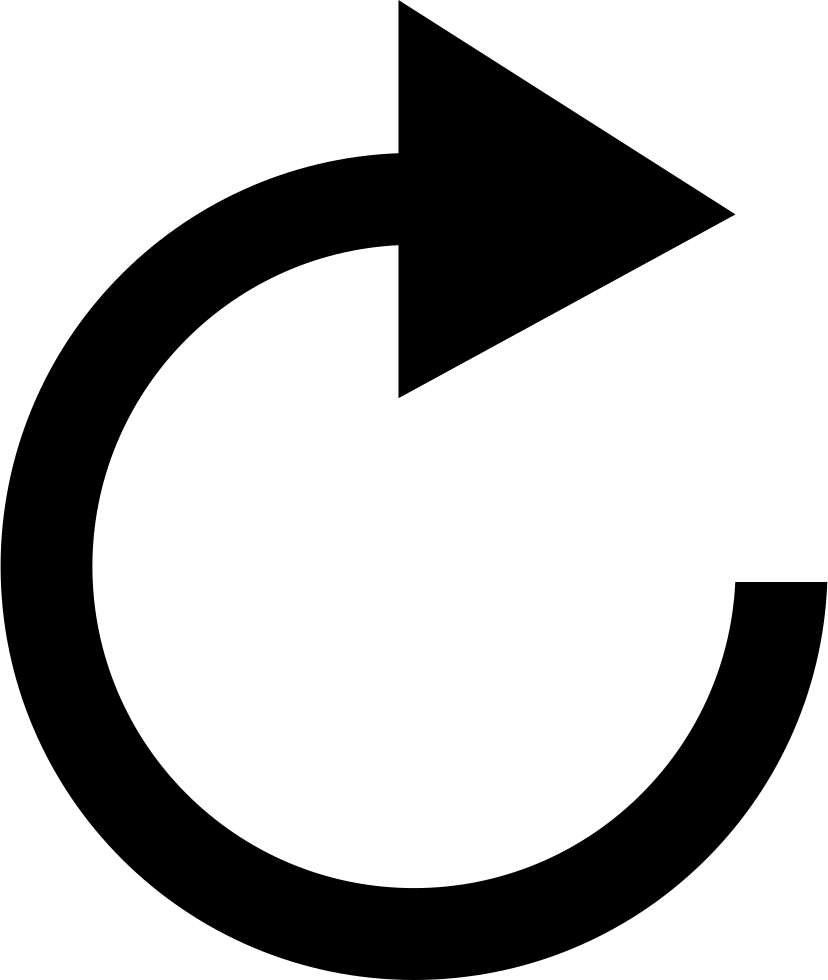
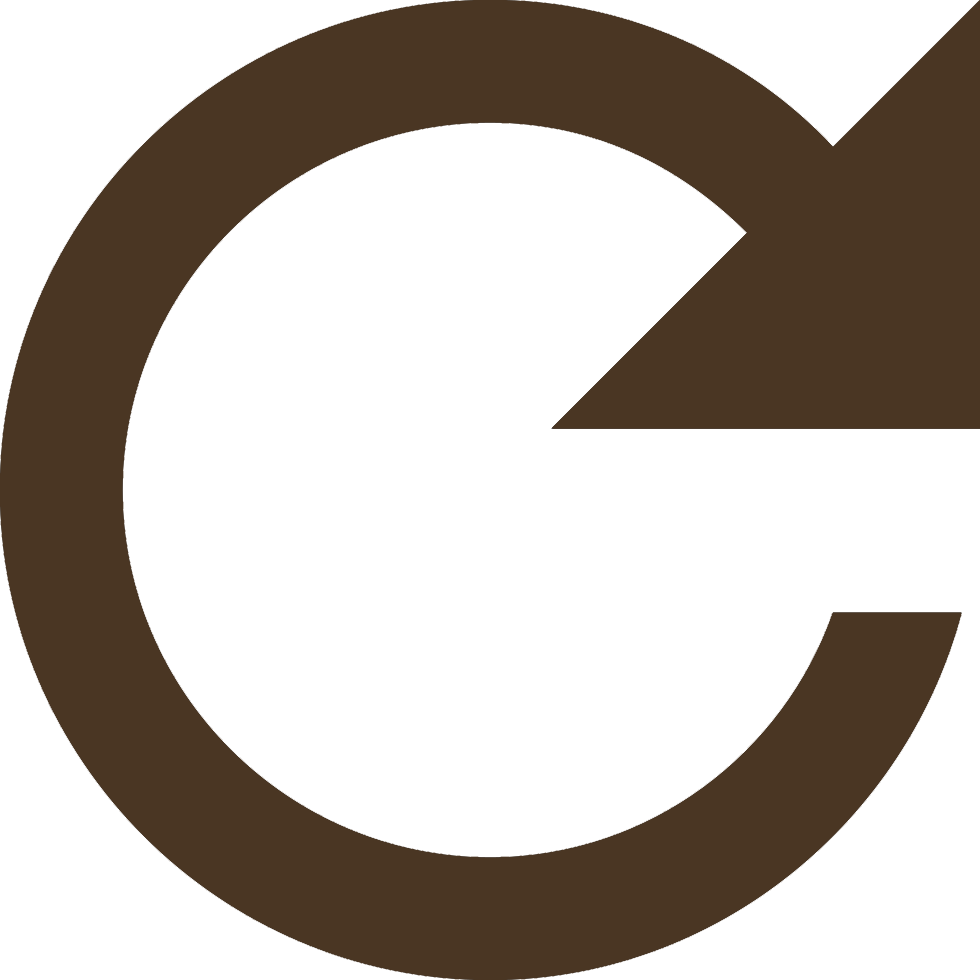
UI + Cleaning
- Refresh button finished
- "Time Trader" card is now "Switch" card
- Code Cleaning

diff --git a/public/javascripts/ui/gamelib.js b/public/javascripts/ui/gamelib.js
@@ -1,11 +1,10 @@
-
 async function refresh() {
     if(GameInfo.game.state != "Finished"){
         await getGameInfo();
         GameInfo.prepareUI();
     }
     if (GameInfo.game.player.state == "Waiting") {
-        // Every time we are waiting
+        //Every time we are waiting
         await getGameInfo();
         await getPawnsPositions();
         await getArtifactsOnBoard();
@@ -22,12 +21,11 @@ function preload() {
     GameInfo.images.oppPawn = loadImage("./assets/BlackPawn.png");
 }
 
-
 async function setup() {
     let canvas = createCanvas(GameInfo.width, GameInfo.height);
     canvas.parent('game');
-    // Preload  images
 
+    //Preload images
     await getGameInfo();
     await getPawnsPositions();
     await getArtifactsOnBoard();
@@ -35,7 +33,7 @@ async function setup() {
     await getCards();
     setInterval(refresh, 500);
 
-    // Buttons (create a separated function if they are many)
+    //Buttons (create a separated function if they are many)
     GameInfo.movePawn = createButton('Move Pawn');
     GameInfo.movePawn.parent('game');
     GameInfo.movePawn.position(GameInfo.width - 260, GameInfo.height - 100);

diff --git a/public/javascripts/ui/gameInfo.js b/public/javascripts/ui/gameInfo.js
@@ -1,13 +1,13 @@
-// All the variables for the game UI
-// we only have one game info so everything is static
+//All the variables for the game UI
+//we only have one game info so everything is static
 class GameInfo {
-    // settings variables
+    //Settings variables
     static width = 1366;
     static height = 800;
 
     static loading = true;
 
-    // data
+    //Data
     static game;
 
     static playerPosition;
@@ -27,21 +27,21 @@ class GameInfo {
     //Drop Card
     static dropping = false;
 
-    // renderers
+    //Renderers
     static scoreBoard;
     static scoreWindow;
     static board;
 
-    // buttons
+    //Buttons
     static movePawn;
     static drawCard;
     static surrend;
 
-    //windows
+    //Windows
     static scoreWindow;
 
-    // Write your UI settings for each game state here
-    // Call the method every time there is a game state change
+    //Write your UI settings for each game state here
+    //Call the method every time there is a game state change
     static prepareUI() {
         if (GameInfo.game.player.state == "Playing") {
             GameInfo.movePawn.show();

diff --git a/public/matches.html b/public/matches.html
@@ -20,8 +20,10 @@
     <div class="form">
       <h2><span id="player">Hello _</span> <input type="button" id="logoutbutton" value="Logout" onclick="logout()"></h2>
       <h1>Join a match or create a new one</h1>
-      <!-- <img src="assets/refresh.png" alt="Refresh" width="50" height="50"> -->
-      <input type="button" id="buttons" value="Refresh Matches" onclick="refresh()">
+
+      <input type="image" id="refreshbutton" src="assets/Refresh.png" onclick="refresh()"/>
+      <!-- <input type="button" id="buttons" value="Refresh Matches" onclick="refresh()"> -->
+
       <section id="matches"></section>
       <input type="button" id="smallbuttons" value="Create match" onclick="createMatch()">
       <input type="button" id="buttons" value="Match History" onclick="window.location.pathname = 'scoreboardList.html'">

diff --git a/public/stylesheets/style.css b/public/stylesheets/style.css
@@ -217,3 +217,11 @@ button.game {
 @keyframes clockb {
   100%{transform: rotate(360deg);}
 }
+
+/* Refresh Button */
+#refreshbutton {
+  background-color: var(--body-bg);
+  height: 10%;
+  width: 10%;
+  padding: 0px;
+}
